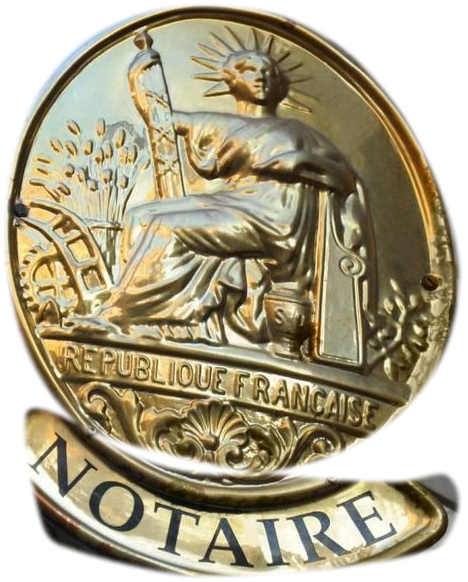
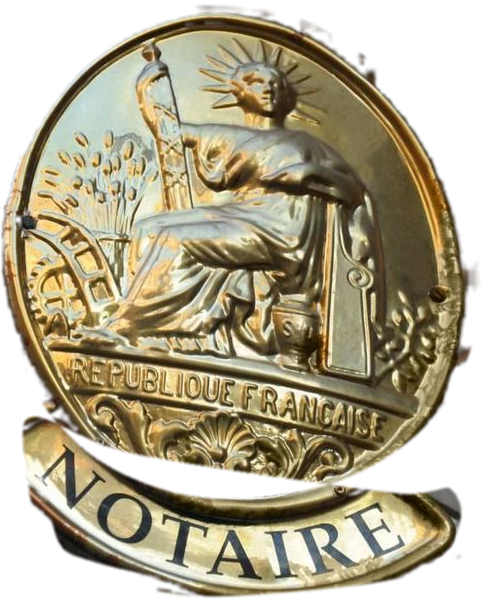
Conserver le pourtour complet du panonceau et le faire osciller doucement
Le détourage ne rogne plus l'emblème : le masque est élargi au-delà du
contour réel et le fond est éliminé pixel par pixel dans la bande
frontière par tri chromatique (l'or est chaud, R−B ≥ 30 mesuré ; la
pierre et le ciel sont neutres ou froids). La jante, son biseau, les vis
et les deux pointes du bandeau Notaire sont désormais entiers.

La suspente et l'emblème oscillent ensemble autour du point d'accroche :
balancement amorti de 1,6° maximum sur quatre secondes, toutes les
quinze secondes (keyframes « balancier »), appliqué en motion-safe
uniquement pour respecter prefers-reduced-motion.

diff --git a/src/app/page.tsx b/src/app/page.tsx
@@ -148,25 +148,27 @@ export default function Accueil() {
             </div>
           </div>
           <div className="mx-auto flex w-56 flex-col items-center self-stretch sm:w-64 lg:w-full lg:max-w-sm">
-            {/* Suspente : fine ligne or terminée par un anneau, comme un
+            {/* Suspente : fine ligne or terminée d'un anneau, comme un
                 accrochage de galerie — le panonceau complet (médaillon et
-                bandeau) apparaît suspendu, sans mur (§5 : l'or en filets). */}
-            <div
-              aria-hidden="true"
-              className="flex min-h-10 flex-1 flex-col items-center lg:-mt-28 lg:min-h-16"
-            >
-              <div className="w-px flex-1 bg-gold/60" />
-              <div className="h-2 w-2 rounded-full border border-gold" />
+                bandeau) apparaît suspendu, sans mur (§5 : l'or en filets).
+                Ligne et emblème oscillent ensemble autour du point d'accroche
+                (motion-safe : balancement amorti toutes les 15 s). */}
+            <div className="flex min-h-10 w-full flex-1 origin-top flex-col items-center motion-safe:animate-balancier lg:-mt-28 lg:min-h-16">
+              <div aria-hidden="true" className="w-px flex-1 bg-gold/60" />
+              <div
+                aria-hidden="true"
+                className="h-2 w-2 rounded-full border border-gold"
+              />
+              <Image
+                src={cheminPublic("/images/panonceau-detoure.png")}
+                alt="Panonceau officiel des notaires — médaillon « République française » et bandeau Notaire"
+                width={486}
+                height={600}
+                priority
+                sizes="(min-width: 1024px) 24rem, 14rem"
+                className="mt-3 w-full drop-shadow-2xl"
+              />
             </div>
-            <Image
-              src={cheminPublic("/images/panonceau-detoure.png")}
-              alt="Panonceau officiel des notaires — médaillon « République française » et bandeau Notaire"
-              width={468}
-              height={582}
-              priority
-              sizes="(min-width: 1024px) 24rem, 14rem"
-              className="mt-3 w-full drop-shadow-2xl"
-            />
             <div aria-hidden="true" className="flex-1" />
           </div>
         </div>

diff --git a/tailwind.config.ts b/tailwind.config.ts
@@ -28,6 +28,24 @@ const config: Config = {
       maxWidth: {
         grid: "1200px",
       },
+      /**
+       * Balancement du panonceau suspendu (accueil) : oscillation amortie de
+       * quelques secondes, répétée toutes les 15 s. Amplitude ≤ 1,6° — un
+       * frémissement, pas un mouvement. Appliqué via motion-safe uniquement.
+       */
+      keyframes: {
+        balancier: {
+          "0%, 26%, 100%": { transform: "rotate(0deg)" },
+          "4%": { transform: "rotate(1.6deg)" },
+          "9%": { transform: "rotate(-1.1deg)" },
+          "14%": { transform: "rotate(0.6deg)" },
+          "19%": { transform: "rotate(-0.25deg)" },
+          "23%": { transform: "rotate(0.1deg)" },
+        },
+      },
+      animation: {
+        balancier: "balancier 15s ease-in-out infinite",
+      },
     },
   },
   plugins: [],
